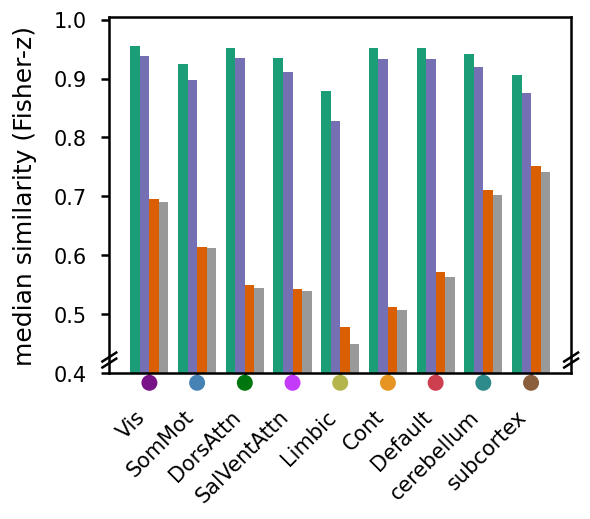
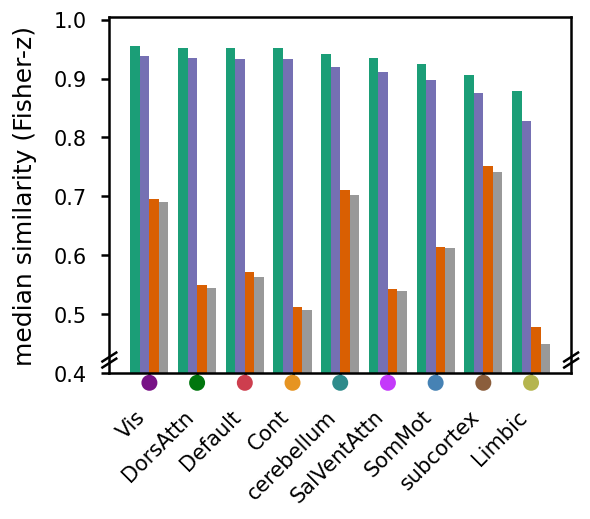
Order bar panels B/D/E/F by within-subject stability, sharing panel G's order

diff --git a/CLAUDE.md b/CLAUDE.md
@@ -457,9 +457,12 @@ of 2026-10-04) — so the key doubles as a ranking of which networks carry the
 most stable connectomes. `stability_ordered_networks()` in
 `figure_connectomes.ipynb` derives it from `longitudinal_lag.tsv`, falling back
 to `NETWORK_ORDER` if that table is empty and sorting any network friends does
-not cover to the end. **Only panel G is reordered.** Every other panel keeps
-`NETWORK_ORDER`, whose fixed anatomical grouping is what lets a reader compare
-the same x position across panels B, D, E and F.
+not cover to the end. **Panels G, B, D, E and F share this one order**
+(`NETWORK_STABILITY_ORDER`, computed once from panel A), so x positions stay
+comparable across the bar panels and the bars step down left to right; as of
+2026-10-04 it matches panel B's within-subject/within-task ranking. Panel A's
+lines, panel C's points and the diagnostic grid keep `NETWORK_ORDER`, where
+order carries no meaning.
 
 `run-figure-layout` is a deliberate exception to the existence-based caching described above: it always re-runs, because it is cheap and a box resized in Inkscape must take effect on the very next `invoke run`, not only after a `clean`.
 

diff --git a/output_data/CONTENT.md b/output_data/CONTENT.md
@@ -241,7 +241,7 @@ Once the pipeline is run, this folder will contain the following.
   `NETWORK_COLORS` entry and named beside it, spanning the full page height
   down the left edge, stacked in decreasing panel-A stability (mean gated
   within-subject median similarity over season lags) so the key doubles as a
-  ranking — only this panel is reordered; the rest keep `NETWORK_ORDER`.
+  ranking — the bar panels B, D, E and F share this order; panels A and C keep `NETWORK_ORDER`.
   Every other panel inherits those colours (panel A's
   lines, panel C's points and labels, the bar panels' x-tick bubbles), which is
   why none of them repeats a nine-network legend. Drawn from the MNI group
